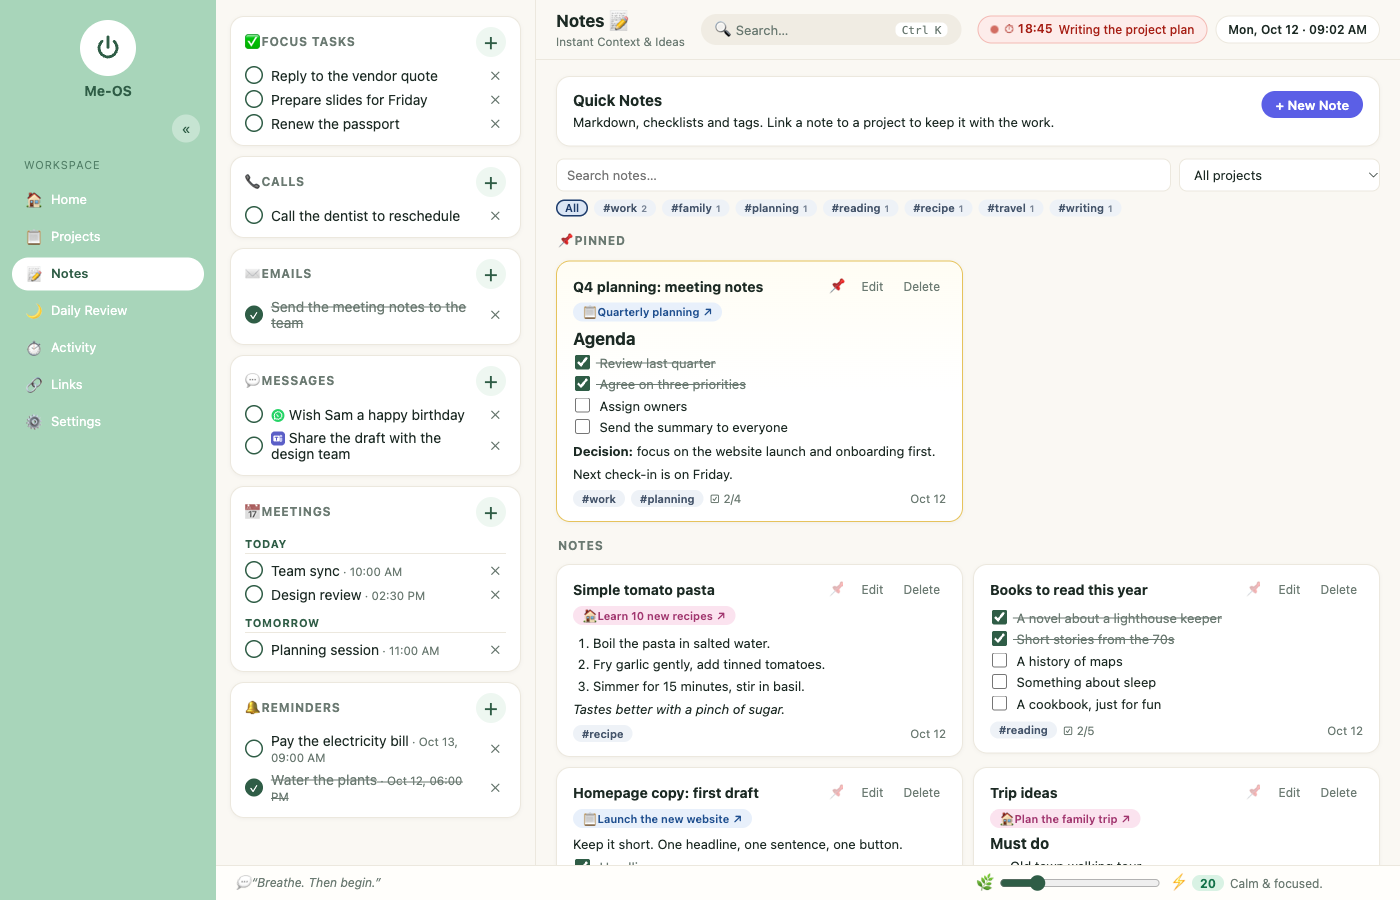
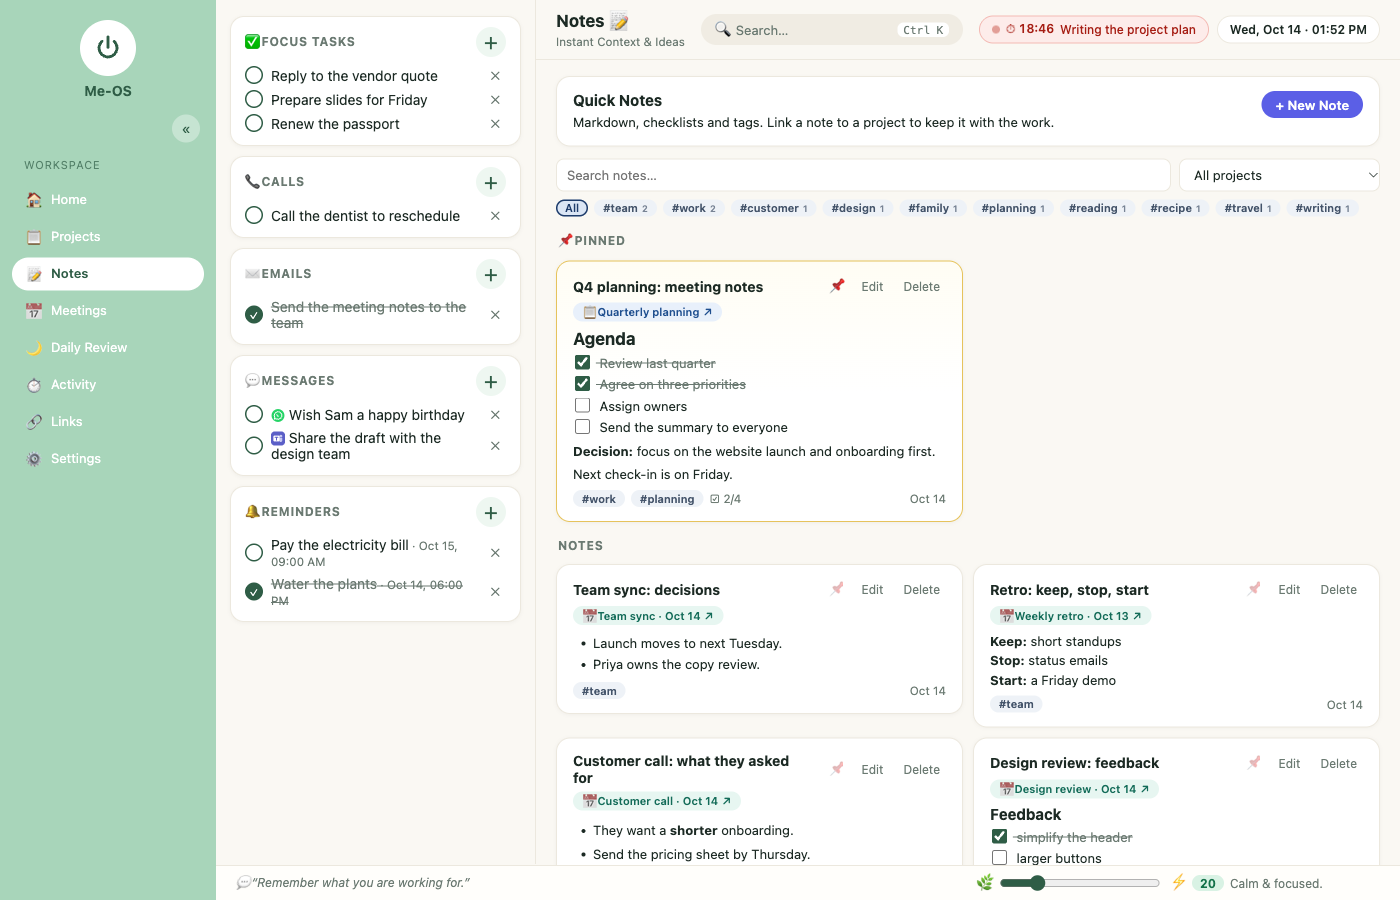
Refresh README screenshots and docs for meetings (invented demo data)

diff --git a/README.md b/README.md
@@ -10,9 +10,10 @@ noticed, and how it went. It runs on your own computer, and your data stays ther
 
 - **Dashboard**: your day at a glance, with a 7-night review strip, a focus timer and today's top priorities.
 - **Today's summary**: one click copies a short plain-text briefing (top 3, meetings, deadlines, reminders, tasks, calls, messages, check-ins) to paste into your phone's notes or a chat.
-- **Tasks column**: Focus tasks, calls, emails, messages (WhatsApp or Teams), meetings and reminders, always beside you.
+- **Tasks column**: Focus tasks, calls, emails, messages (WhatsApp or Teams) and reminders, always beside you.
 - **Projects**: compact cards with steps you can drag into order, due dates, a Work or Personal type, and notes.
-- **Notes**: markdown with tickable checklists, `#tags`, pinning, search, and links to projects.
+- **Meetings**: your own and your Outlook meetings in one list, upcoming and past. Add a note to any of them, using the same note editor. The dashboard shows today's meetings.
+- **Notes**: markdown with tickable checklists, `#tags`, pinning, search, and links to projects and meetings.
 - **Daily Review**: a short nightly ritual: check-ins with streaks, wins, goals moved forward in tiny steps, reflection,
   tomorrow's top 3, and a brain dump. Plus a **History** page with a heatmap of rating, energy and stress.
 - **Focus timer and Activity log**: start a timer on one thing and stop when you're done. Keeps a paged log.
@@ -27,8 +28,9 @@ noticed, and how it went. It runs on your own computer, and your data stays ther
 | | |
 |---|---|
 | [![Projects](docs/screenshots/projects.png)](docs/screenshots/projects.png)<br>**Projects**: compact cards with progress, due dates and a pink badge for personal projects. | [![A project open in the editor](docs/screenshots/project-editor.png)](docs/screenshots/project-editor.png)<br>**Project editor**: reorderable steps with due dates, plus the notes that belong to the project. |
-| [![Notes](docs/screenshots/notes.png)](docs/screenshots/notes.png)<br>**Notes**: markdown with tickable checklists, tags, pinning and links back to projects. | [![Daily Review](docs/screenshots/daily-review.png)](docs/screenshots/daily-review.png)<br>**Daily Review**: check-ins with streaks, wins, what's unfinished, and goals moved forward in tiny steps. |
-| [![Review History](docs/screenshots/history.png)](docs/screenshots/history.png)<br>**Review History**: a month heatmap of rating, energy or stress, with weekday patterns. | [![Privacy settings](docs/screenshots/privacy.png)](docs/screenshots/privacy.png)<br>**Privacy**: optional internet features are off until you switch them on, and you can export or erase everything. |
+| [![Notes](docs/screenshots/notes.png)](docs/screenshots/notes.png)<br>**Notes**: markdown with tickable checklists, tags, pinning, and links back to projects and meetings. | [![Daily Review](docs/screenshots/daily-review.png)](docs/screenshots/daily-review.png)<br>**Daily Review**: check-ins with streaks, wins, what's unfinished, and goals moved forward in tiny steps. |
+| [![Meetings](docs/screenshots/meetings.png)](docs/screenshots/meetings.png)<br>**Meetings**: yours and Outlook's, with the notes you took under each one. | [![Review History](docs/screenshots/history.png)](docs/screenshots/history.png)<br>**Review History**: a month heatmap of rating, energy or stress, with weekday patterns. |
+| [![Privacy settings](docs/screenshots/privacy.png)](docs/screenshots/privacy.png)<br>**Privacy**: optional internet features are off until you switch them on, and you can export or erase everything. | |
 
 <p align="center">
   <img src="docs/screenshots/mobile.png" alt="Me-OS on a phone" width="260"><br>

diff --git a/docs/API.md b/docs/API.md
@@ -13,7 +13,7 @@ The app's own HTTP API (served on localhost only). Paths are relative to `/api`.
 - `GET|POST /api/habits`, `GET|POST /api/goals`, `POST /api/goals/:id/entries`
 - `GET /api/focus/status`, `POST /api/focus/start|stop`, `GET /api/focus/sessions?page=&page_size=`, `PATCH|DELETE /api/focus/sessions/:id`
 - `GET|POST /api/links`, `PATCH|DELETE /api/links/:id`
-- `GET /api/notes[?project_id=]`, `GET|PATCH|DELETE /api/notes/:id`, `POST /api/notes` (notes take an optional `project_id`)
+- `GET /api/notes[?project_id=|?meeting=1|?meeting_key=]`, `GET|PATCH|DELETE /api/notes/:id`, `POST /api/notes` (notes take an optional `project_id` and an optional `meeting: { key, title, start }`; keys are `item:<id>` for your own meetings and `ics:<id>` for Outlook ones)
 - `GET /api/settings` (calendar status, stress level, privacy switches), `PUT /api/settings/privacy` (`{weather?, favicons?}`)
 - `GET /api/export` (everything as a JSON download; the Outlook link is left out)
 - `POST /api/erase` (`{"confirm":"DELETE"}`: permanently deletes all data)
